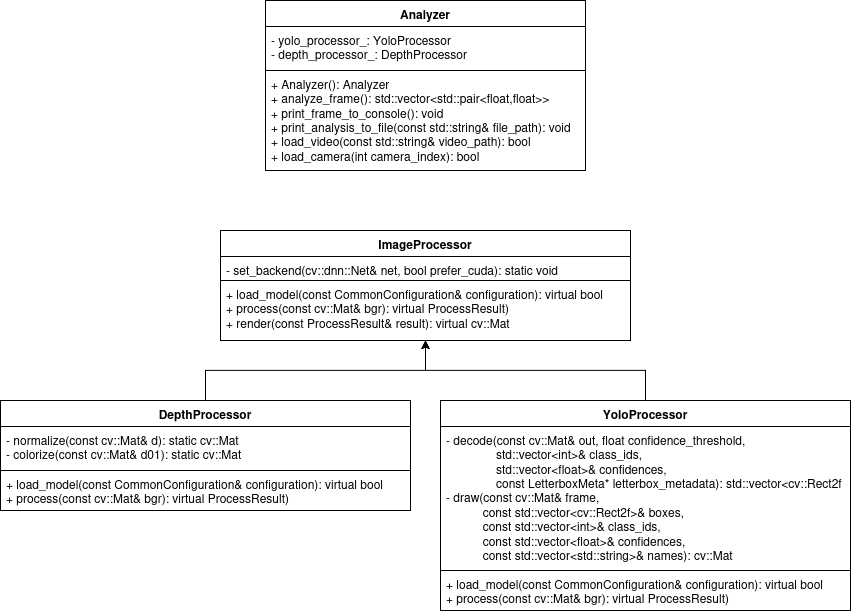
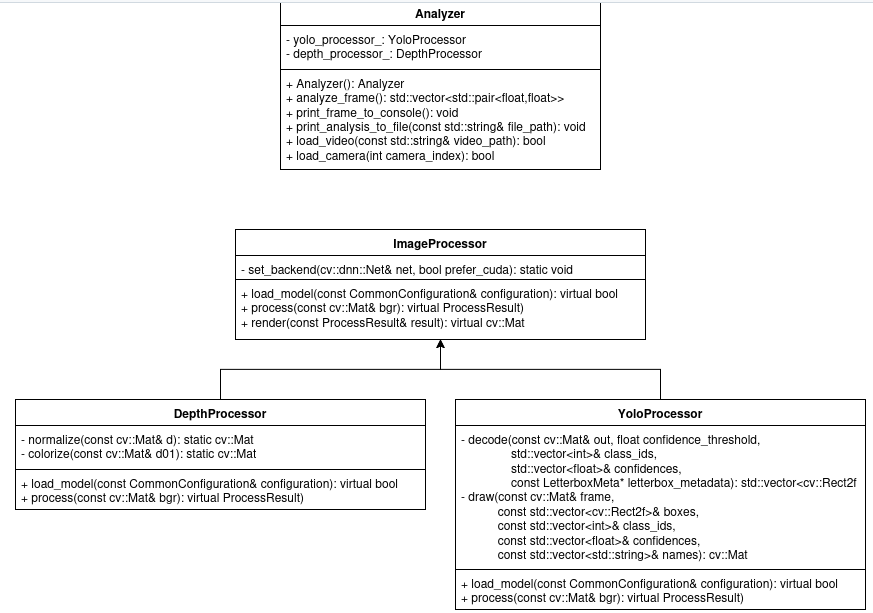
Task #1.10 Revise UML Diagram
This commit modifies the updated UML class diagram for phase 1 to remove the transparent background. This allows for better viewing while in dark mode.  README.md also updated to reflect this new UML diagram.

Changed region(s): [[0.2444, 0.3719, 1.0, 1.0], [0.3055, 0.0, 0.7027, 0.279], [0.0, 0.6509, 0.4888, 0.8369]]

diff --git a/README.md b/README.md
@@ -29,7 +29,7 @@ The module will leverage two separate machine learning models to achieve its mai
 
 #### Module Architecture
 
-![Module Architecture](/UML/initial/ENPM700_midterm_project_class_UML.png) 
+![Module Architecture](/UML/revised/ENPM700_midterm_project_phase1.png) 
 
 #### Results
 
